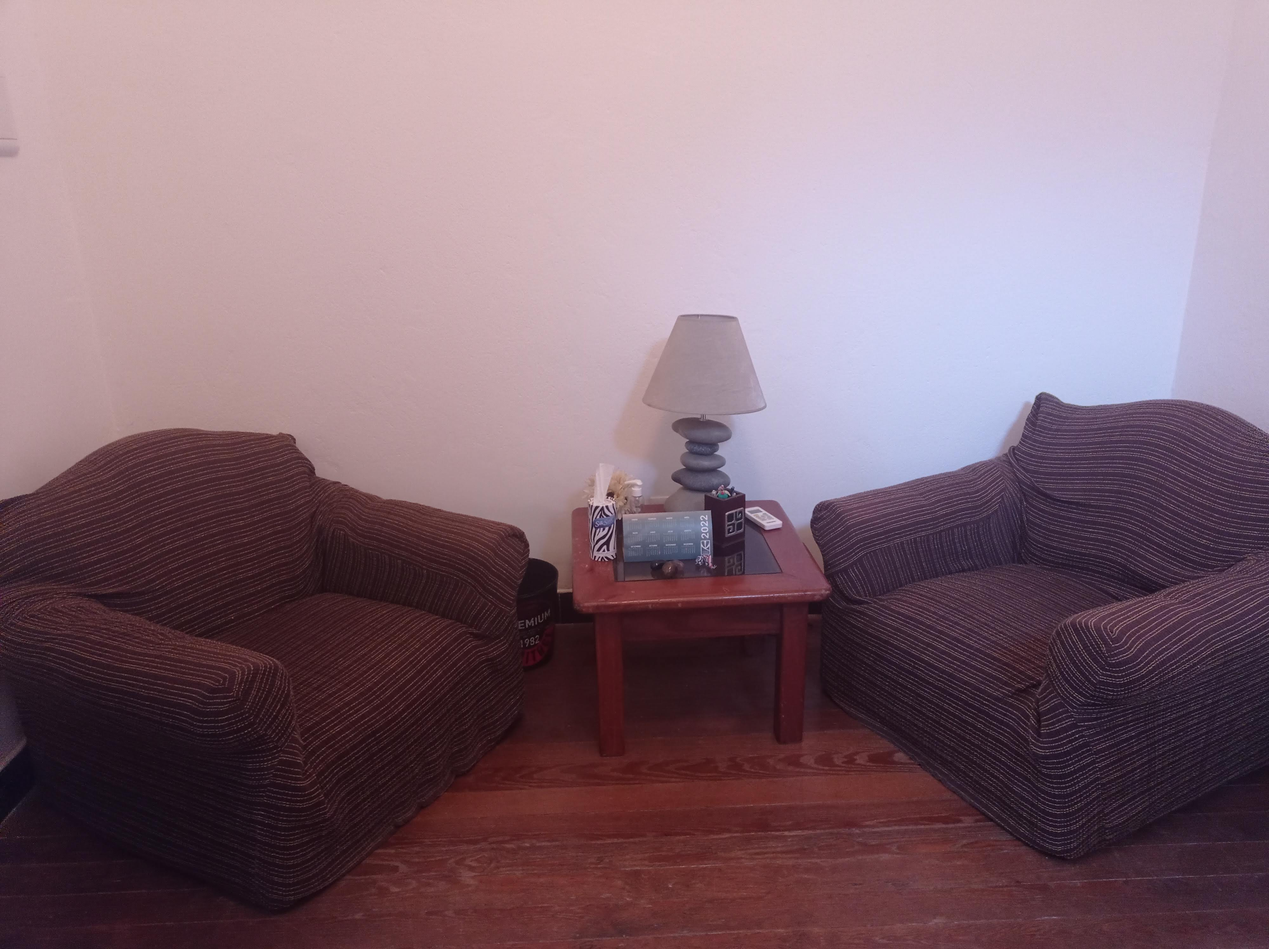
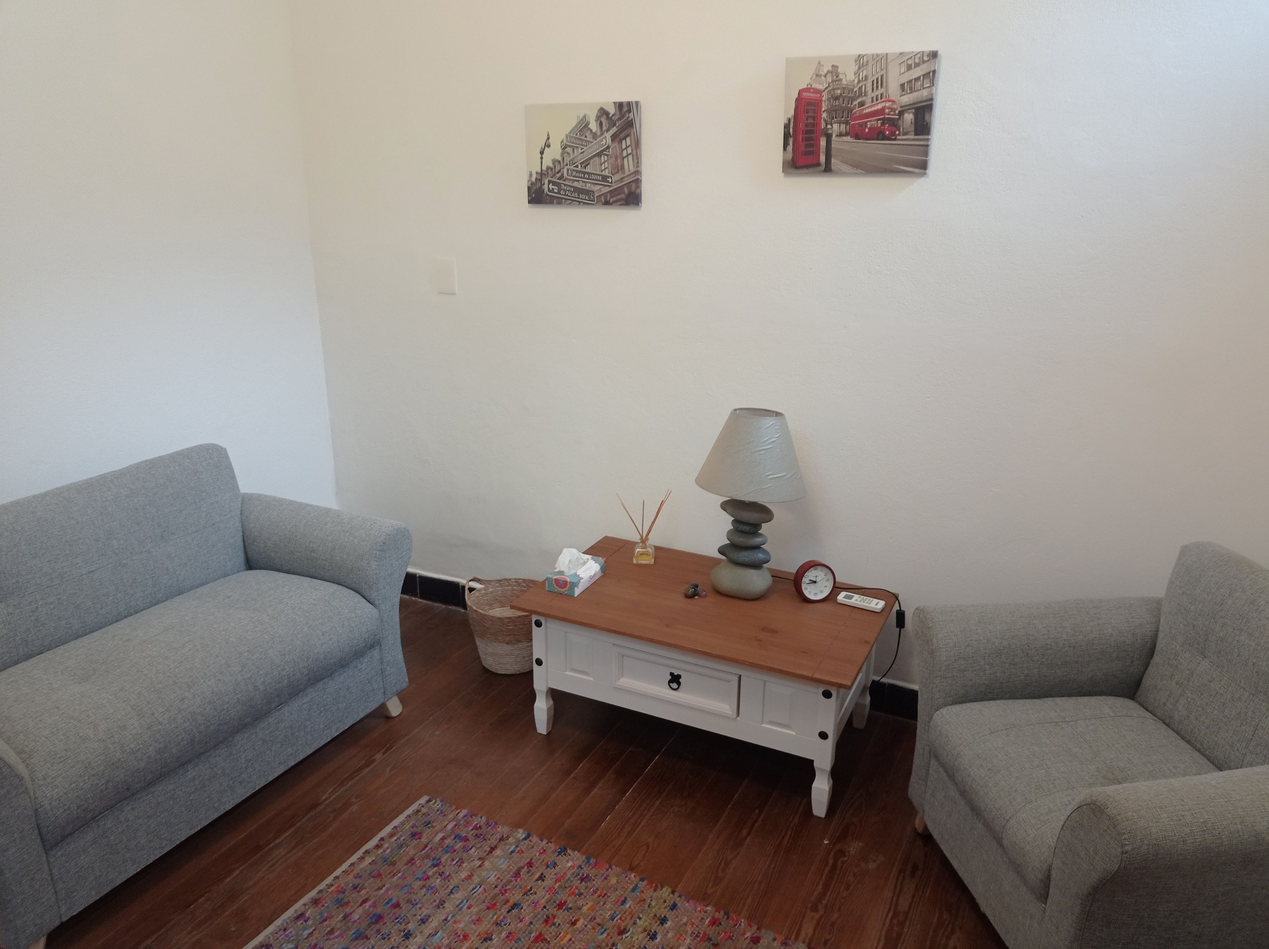
Modificados estilos css y modificadas imagenes de consultorios

diff --git a/tailwind.config.js b/tailwind.config.js
@@ -1,4 +1,4 @@
-import { heroui } from "@heroui/theme";
+const { heroui } = require("@heroui/theme");
 
 /** @type {import('tailwindcss').Config} */
 const config = {
@@ -9,6 +9,12 @@ const config = {
   ],
   theme: {
     extend: {
+      colors: {
+        "marron-cafe": "#5C4033", // Nuestro color de texto principal
+        "terracotta-suave": "#E07A5F", // Nuestro color de acento para CTAs
+        "crema-suave": "#FAF3E0", // Nuestro color de fondo
+        "gris-calido": "#D6D2D2", // Nuestro color secundario
+      },
       fontFamily: {
         sans: ["var(--font-sans)"],
         mono: ["var(--font-mono)"],
@@ -16,7 +22,231 @@ const config = {
     },
   },
   darkMode: "class",
-  plugins: [heroui()],
+  plugins: [
+    heroui({
+      themes: {
+        light: {
+          colors: {
+            default: {
+              50: "#f6f5f4",
+              100: "#e9e7e5",
+              200: "#dbd9d6",
+              300: "#cecbc6",
+              400: "#c1bdb7",
+              500: "#b4afa8",
+              600: "#95908b",
+              700: "#75726d",
+              800: "#565350",
+              900: "#363532",
+              foreground: "#000",
+              DEFAULT: "#b4afa8",
+            },
+            primary: {
+              50: "#fbeeeb",
+              100: "#f6d7cf",
+              200: "#f0c0b3",
+              300: "#eba997",
+              400: "#e5917b",
+              500: "#e07a5f",
+              600: "#b9654e",
+              700: "#924f3e",
+              800: "#6a3a2d",
+              900: "#43251d",
+              foreground: "#000",
+              DEFAULT: "#e07a5f",
+            },
+            secondary: {
+              50: "#ebe7e6",
+              100: "#cec6c2",
+              200: "#b2a49e",
+              300: "#95837a",
+              400: "#796157",
+              500: "#5c4033",
+              600: "#4c352a",
+              700: "#3c2a21",
+              800: "#2c1e18",
+              900: "#1c130f",
+              foreground: "#fff",
+              DEFAULT: "#5c4033",
+            },
+            success: {
+              50: "#f3f6f0",
+              100: "#e2e9db",
+              200: "#d0ddc6",
+              300: "#bfd0b1",
+              400: "#aec49c",
+              500: "#9db787",
+              600: "#82976f",
+              700: "#667758",
+              800: "#4b5740",
+              900: "#2f3729",
+              foreground: "#000",
+              DEFAULT: "#9db787",
+            },
+            warning: {
+              50: "#fff9eb",
+              100: "#fff2cf",
+              200: "#ffeab3",
+              300: "#ffe297",
+              400: "#ffda7b",
+              500: "#ffd25f",
+              600: "#d2ad4e",
+              700: "#a6893e",
+              800: "#79642d",
+              900: "#4d3f1d",
+              foreground: "#000",
+              DEFAULT: "#ffd25f",
+            },
+            danger: {
+              50: "#ffefef",
+              100: "#fed9d9",
+              200: "#fec3c3",
+              300: "#fdadad",
+              400: "#fd9797",
+              500: "#fc8181",
+              600: "#d06a6a",
+              700: "#a45454",
+              800: "#783d3d",
+              900: "#4c2727",
+              foreground: "#000",
+              DEFAULT: "#fc8181",
+            },
+            background: "#FAF3E0",
+            foreground: "#a27225",
+            content1: {
+              DEFAULT: "#e3dfda",
+              foreground: "#000",
+            },
+            content2: {
+              DEFAULT: "#ffe9cc",
+              foreground: "#000",
+            },
+            content3: {
+              DEFAULT: "#ffe0b8",
+              foreground: "#000",
+            },
+            content4: {
+              DEFAULT: "#ffd7a3",
+              foreground: "#000",
+            },
+            focus: "#db924b",
+            overlay: "#000000",
+          },
+        },
+        dark: {
+          colors: {
+            default: {
+              50: "#0d0b0d",
+              100: "#1a161a",
+              200: "#272227",
+              300: "#342d34",
+              400: "#413841",
+              500: "#676067",
+              600: "#8d888d",
+              700: "#b3afb3",
+              800: "#d9d7d9",
+              900: "#ffffff",
+              foreground: "#fff",
+              DEFAULT: "#413841",
+            },
+            primary: {
+              50: "#43251d",
+              100: "#6a3a2d",
+              200: "#924f3e",
+              300: "#b9654e",
+              400: "#e07a5f",
+              500: "#e5917b",
+              600: "#eba997",
+              700: "#f0c0b3",
+              800: "#f6d7cf",
+              900: "#fbeeeb",
+              foreground: "#000",
+              DEFAULT: "#e07a5f",
+            },
+            secondary: {
+              50: "#1c130f",
+              100: "#2c1e18",
+              200: "#3c2a21",
+              300: "#4c352a",
+              400: "#5c4033",
+              500: "#796157",
+              600: "#95837a",
+              700: "#b2a49e",
+              800: "#cec6c2",
+              900: "#ebe7e6",
+              foreground: "#fff",
+              DEFAULT: "#5c4033",
+            },
+            success: {
+              50: "#2f3729",
+              100: "#4b5740",
+              200: "#667758",
+              300: "#82976f",
+              400: "#9db787",
+              500: "#aec49c",
+              600: "#bfd0b1",
+              700: "#d0ddc6",
+              800: "#e2e9db",
+              900: "#f3f6f0",
+              foreground: "#000",
+              DEFAULT: "#9db787",
+            },
+            warning: {
+              50: "#4d3f1d",
+              100: "#79642d",
+              200: "#a6893e",
+              300: "#d2ad4e",
+              400: "#ffd25f",
+              500: "#ffda7b",
+              600: "#ffe297",
+              700: "#ffeab3",
+              800: "#fff2cf",
+              900: "#fff9eb",
+              foreground: "#000",
+              DEFAULT: "#ffd25f",
+            },
+            danger: {
+              50: "#4c2727",
+              100: "#783d3d",
+              200: "#a45454",
+              300: "#d06a6a",
+              400: "#fc8181",
+              500: "#fd9797",
+              600: "#fdadad",
+              700: "#fec3c3",
+              800: "#fed9d9",
+              900: "#ffefef",
+              foreground: "#000",
+              DEFAULT: "#fc8181",
+            },
+            background: "#FAF3E0",
+            foreground: "#c59f60",
+            content1: {
+              DEFAULT: "#2c1f2b",
+              foreground: "#fff",
+            },
+            content2: {
+              DEFAULT: "#3e2b3c",
+              foreground: "#fff",
+            },
+            content3: {
+              DEFAULT: "#50374d",
+              foreground: "#fff",
+            },
+            content4: {
+              DEFAULT: "#62435f",
+              foreground: "#fff",
+            },
+            focus: "#db924b",
+            overlay: "#ffffff",
+          },
+        },
+      },
+      layout: {
+        disabledOpacity: "0.5",
+      },
+    }),
+  ],
 };
 
 module.exports = config;

diff --git a/components/homepage/Gallery.tsx b/components/homepage/Gallery.tsx
@@ -8,7 +8,7 @@ const espacios = [
   {
     id: "consultorio-1",
     nombre: "Consultorio 1",
-    img: "/images/consultorio1-1.jpg",
+    img: "/images/consultorio1-2.jpg",
   },
   {
     id: "consultorio-2",
